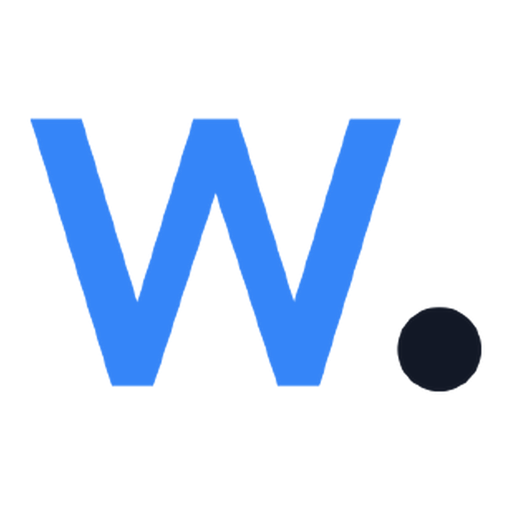
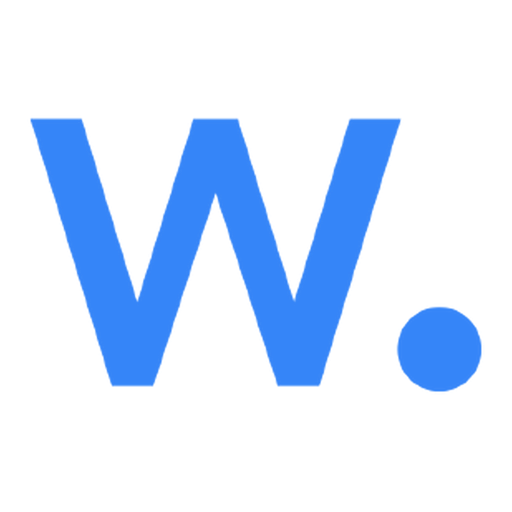
wazuh 1.0.0: review fixes
- daily snapshots (0 3 * * *, 7d, final snapshot) on the manager, worker and indexer volume sets, with a
  values knob, an at-most-hourly chart rule mirrored in the wizard, and README lines
- README: one Configuration subsection per values area (incl. dashboard.internalAccess), Connecting as a
  table with the indexer endpoint, access-change propagation note; wizard docs anchors aligned
- tests: dashboard overall state parsed + wrong-password control, dashboard-to-API hop, positive control
  for the indexer firewall check, marker agent that must survive upgrades, shell: bash, driftBlocks: true;
  baseline keeps the agents' public load balancer on
- catalog summary says when Wazuh is the right pick; config-secret comment and briefing wording fixed;
  icon dot in the mark's blue so it reads on dark cards

Claude-Session: https://claude.ai/code/session_01Tz9FCYDg7KtJ18PpaqWSX7

Changed region(s): [[0.75, 0.5938, 0.9688, 0.7812]]

diff --git a/wazuh/versions/1.0.0/README.md b/wazuh/versions/1.0.0/README.md
@@ -4,9 +4,9 @@ Open-source endpoint security: Wazuh agents on your Linux, Windows and macOS hos
 
 ## Architecture
 
-- **Manager** (`RELEASE-wazuh-manager`, stateful, 1 replica) — the Wazuh server: receives agent events on TCP 1514, enrolls agents on 1515, serves the server API on 55000, runs analysis and vulnerability detection, and ships alerts to the indexer. Its volume set (`/var/ossec/queue`, 50 GiB) holds agent keys, server state, the alert log files, custom rules and about 7 GiB of vulnerability content.
-- **Workers** (`RELEASE-wazuh-worker`, stateful, optional) — extra Wazuh server nodes that take agent traffic, so agents stay connected while the manager restarts. Each has its own volume set.
-- **Indexer** (`RELEASE-wazuh-indexer`, stateful, 1 or 3+ nodes) — stores alerts and inventory with its security plugin on (TLS and passwords). Only this release's workloads, and any you list, can reach it.
+- **Manager** (`RELEASE-wazuh-manager`, stateful, 1 replica) — the Wazuh server: receives agent events on TCP 1514, enrolls agents on 1515, serves the server API on 55000, runs analysis and vulnerability detection, and ships alerts to the indexer. Its volume set (`/var/ossec/queue`, 50 GiB) holds agent keys, server state, the alert log files, custom rules and about 7 GiB of vulnerability content, with daily snapshots.
+- **Workers** (`RELEASE-wazuh-worker`, stateful, optional) — extra Wazuh server nodes that take agent traffic, so agents stay connected while the manager restarts. Each has its own volume set, with daily snapshots.
+- **Indexer** (`RELEASE-wazuh-indexer`, stateful, 1 or 3+ nodes) — stores alerts and inventory (one volume set per node, daily snapshots) with its security plugin on (TLS and passwords). Only this release's workloads, and any you list, can reach it.
 - **Dashboard** (`RELEASE-wazuh-dashboard`, standard) — the web UI on the workload's `*.cpln.app` HTTPS endpoint.
 - **Certificate volume** (`RELEASE-wazuh-pki`, shared) — the manager creates a private CA and the TLS certificates at first boot; the indexer and dashboard read them from here. The CA key never leaves the manager's own volume.
 - **Demo agent** (`RELEASE-wazuh-demo-agent`, optional) — a real agent inside the GVC that fills the dashboard right away.
@@ -43,9 +43,11 @@ Read the values back with `cpln secret reveal my-wazuh-credentials -o yaml`. If 
 
 ## Configuration
 
-```yaml
-credentialsSecretName: my-wazuh-credentials
+The default is one node of each component. A restart of the manager or indexer pauses event processing; agents and the indexer shipper buffer and resend, so nothing is lost. Set `indexer.replicas: 3`, `manager.workers.replicas: 2` and `dashboard.replicas: 2` for near-zero-downtime upgrades. Each component also has an `image` and a `resources` block; keep all images on the same Wazuh version.
 
+### Manager
+
+```yaml
 manager:
   logRetentionDays: 30 # delete dated alert/archive log files older than this; 0 = keep forever
   extraConfig: "" # raw <ossec_config>…</ossec_config> blocks appended to ossec.conf
@@ -55,40 +57,86 @@ manager:
       - 0.0.0.0/0 # narrow to the networks your agents connect from
     api: false # also expose the server API (port 55000)
   internalAccess:
-    type: same-gvc # same-gvc, same-org or workload-list
+    type: same-gvc # same-gvc, same-org or workload-list (this release's workloads are always allowed)
+  volumeset:
+    capacity: 50 # GiB; agent keys, server state, alert log files, vulnerability content
+    snapshots:
+      schedule: "0 3 * * *" # daily at 3am UTC; at most hourly; "" turns scheduled snapshots off
+      retentionDuration: 7d
+```
+
+Edits to `ossec.conf` made in the dashboard are reset on the next restart; put lasting changes in `extraConfig`. Custom rules, decoders and CDB lists made in the dashboard are kept. The manager volume holds every agent key and the CA key, so keep its snapshots on.
+
+### Worker nodes
+
+```yaml
+manager:
   workers:
     replicas: 0 # 1+ adds worker nodes that take agent traffic
+    volumeset:
+      capacity: 20 # GiB per worker
+      snapshots:
+        schedule: "0 3 * * *"
+        retentionDuration: 7d
+```
 
+Workers keep agents connected while the manager restarts. With workers on, point agents at the worker load balancer; workers pass enrollment on to the manager, and the server API stays on the manager.
+
+### Indexer
+
+```yaml
 indexer:
   replicas: 1 # 1, or an odd number of 3 or more
   javaHeap: 2g # about half of resources.maxMemory
   retentionDays: 90 # delete alert indices older than this; 0 = keep forever
   internalAccess:
     workloads: [] # extra workloads allowed to query the indexer
-
-dashboard:
-  replicas: 1
-  publicAccess:
-    enabled: true # HTTPS UI on the *.cpln.app endpoint
-
-demoAgent:
-  enabled: false # a sample agent in this GVC
+  volumeset:
+    capacity: 50 # GiB per node; roughly 2 GiB per agent per 90 days
+    snapshots:
+      schedule: "0 3 * * *"
+      retentionDuration: 7d
 ```
 
-- **Availability.** The default is one node of each. A restart of the manager or indexer pauses event processing; agents and the indexer shipper buffer and resend, so nothing is lost. Set `indexer.replicas: 3`, `manager.workers.replicas: 2` and `dashboard.replicas: 2` for near-zero-downtime upgrades. The manager itself is always one node (Wazuh has one master by design).
-- **Storage.** `manager.volumeset`, `manager.workers.volumeset` and `indexer.volumeset` set the capacity and optional autoscaling. The indexer needs roughly 2 GiB per agent per 90 days. Uninstalling the release deletes every volume set, with the stored alerts and every agent key.
-- **Server configuration.** Edits to `ossec.conf` made in the dashboard are reset on the next restart; put lasting changes in `manager.extraConfig`. Custom rules, decoders and CDB lists made in the dashboard are kept.
-- **Images and resources.** `manager.image`, `indexer.image`, `dashboard.image`, `demoAgent.image` and each `resources` block. Keep all images on the same Wazuh version.
+Every volume set also takes `autoscaling` (`enabled`, `maxCapacity`, `minFreePercentage`, `scalingFactor`). Uninstalling the release deletes every volume set, with the stored alerts and every agent key; a final snapshot of each is kept for `retentionDuration`.
+
+### Dashboard
+
+```yaml
+dashboard:
+  replicas: 1 # 2+ keeps the UI up through restarts
+  publicAccess:
+    enabled: true # HTTPS UI on the *.cpln.app endpoint; false = reach it with cpln port-forward
+  internalAccess:
+    type: same-gvc # none, same-gvc, same-org or workload-list
+    workloads: # used with workload-list
+      #- //gvc/GVC_NAME/workload/WORKLOAD_NAME
+```
+
+### Demo agent
+
+```yaml
+demoAgent:
+  enabled: false # a real agent in this GVC that fills the dashboard right away
+```
 
 ## Connecting
 
-**Dashboard.** Open the dashboard workload's endpoint (`cpln workload get RELEASE-wazuh-dashboard --gvc GVC -o yaml`, `status.canonicalEndpoint`) and sign in as `admin` with `indexerAdminPassword`. With `dashboard.publicAccess.enabled: false`, forward it instead and open `http://localhost:5601`:
+| What | Address | Credentials |
+|---|---|---|
+| Dashboard | `status.canonicalEndpoint` of `RELEASE-wazuh-dashboard` (public), or `http://localhost:5601` through port-forward | `admin` / `indexerAdminPassword` |
+| Agents (outside Control Plane) | the manager's load balancer host, ports 1514 and 1515 (the worker's when workers are on) | `enrollmentPassword` |
+| Agents (inside the GVC) | `RELEASE-wazuh-manager.GVC.cpln.local`, ports 1514 and 1515 | `enrollmentPassword` |
+| Server API | `https://RELEASE-wazuh-manager.GVC.cpln.local:55000` (also on the load balancer with `manager.publicAccess.api: true`) | `wazuh-wui` / `apiPassword` |
+| Indexer | `https://RELEASE-wazuh-indexer.GVC.cpln.local:9200` (this release's workloads and `indexer.internalAccess.workloads` only) | `admin` / `indexerAdminPassword` |
+
+With `dashboard.publicAccess.enabled: false`, forward the dashboard and open `http://localhost:5601`:
 
 ```bash
 cpln port-forward RELEASE-wazuh-dashboard 5601:5601 --gvc GVC
 ```
 
-**Agents.** Find the agent host in the manager's load balancer list (or the worker's, when workers are on):
+Find the agents' load balancer host:
 
 ```bash
 cpln workload get RELEASE-wazuh-manager --gvc GVC -o json | jq -r '.status.loadBalancer[].url'
@@ -103,13 +151,12 @@ sudo WAZUH_MANAGER="RELEASE-wazuh-manager-xxxx.yyyy.cpln.app" \
 sudo systemctl enable --now wazuh-agent
 ```
 
-The dashboard's **Deploy new agent** page builds the same command for every operating system, with the host already filled in. The agent then appears under **Endpoints**. Workloads in the GVC reach the manager at `RELEASE-wazuh-manager.GVC.cpln.local` on the same ports.
-
-**Server API.** From inside the GVC, `https://RELEASE-wazuh-manager.GVC.cpln.local:55000` with user `wazuh-wui` and `apiPassword`; set `manager.publicAccess.api: true` to expose it on the load balancer too.
+The dashboard's **Deploy new agent** page builds the same command for every operating system, with the host already filled in. The agent then appears under **Endpoints**.
 
 ## Important Notes
 
 - **Single location.** The template runs in one location; install it in a GVC with exactly one location.
+- **Access changes take time.** After changing `manager.publicAccess.*` or `dashboard.publicAccess.enabled`, allow 30 seconds to about 10 minutes for the firewall and load balancer to apply.
 - **Changing a password.** The secret is the source of truth on every start. Edit the key (`cpln secret edit my-wazuh-credentials`), then force a redeployment of the indexer, then the manager (and workers), then the dashboard, for example `cpln workload force-redeployment RELEASE-wazuh-indexer --gvc GVC`. A password changed only in the dashboard reverts on the next restart.
 - **Certificates.** The manager creates the CA and certificates once (10-year life) and keeps the CA key on its own volume. If the manager's volume set is ever replaced, restart the indexer and dashboard afterwards so they pick up the new CA, and enroll the agents again.
 - **Demo agent.** It enrolls under a new name each time it restarts, leaving the old entry disconnected. Turn it off once your own agents connect, and remove stale entries under **Endpoints**.

diff --git a/briefings/wazuh.md b/briefings/wazuh.md
@@ -30,7 +30,7 @@
 ## How it works (the non-obvious parts)
 - The manager volume mounts at `/var/ossec/queue` (Wazuh's cluster sync refuses paths that resolve outside it); the other persistent directories live under `queue/.cpln-persist` behind relative symlinks (the daemons chroot into `/var/ossec`).
 - `ossec.conf` is rendered into a chart secret and written by the start script on every boot; UI edits to it are reset, so lasting changes go in `manager.extraConfig`.
-- Keys on the PKI volume: indexer and admin keys `root:1001` 0640 (the indexer runs with fsGroup 1001); the dashboard (uid 1000, no fsGroup) can read only the CA certificate.
+- Keys on the PKI volume: indexer and admin keys `root:1001` 0640 (the indexer runs with fsGroup 1001); the dashboard (uid 1000, no fsGroup) can read the certificates (all 0644) but no private keys.
 
 ## Troubleshooting / considerations
 - Nothing starts and the logs are empty → the credentials secret is missing or misnamed; read `status.versions[].message` via `cpln workload get-deployments`.
